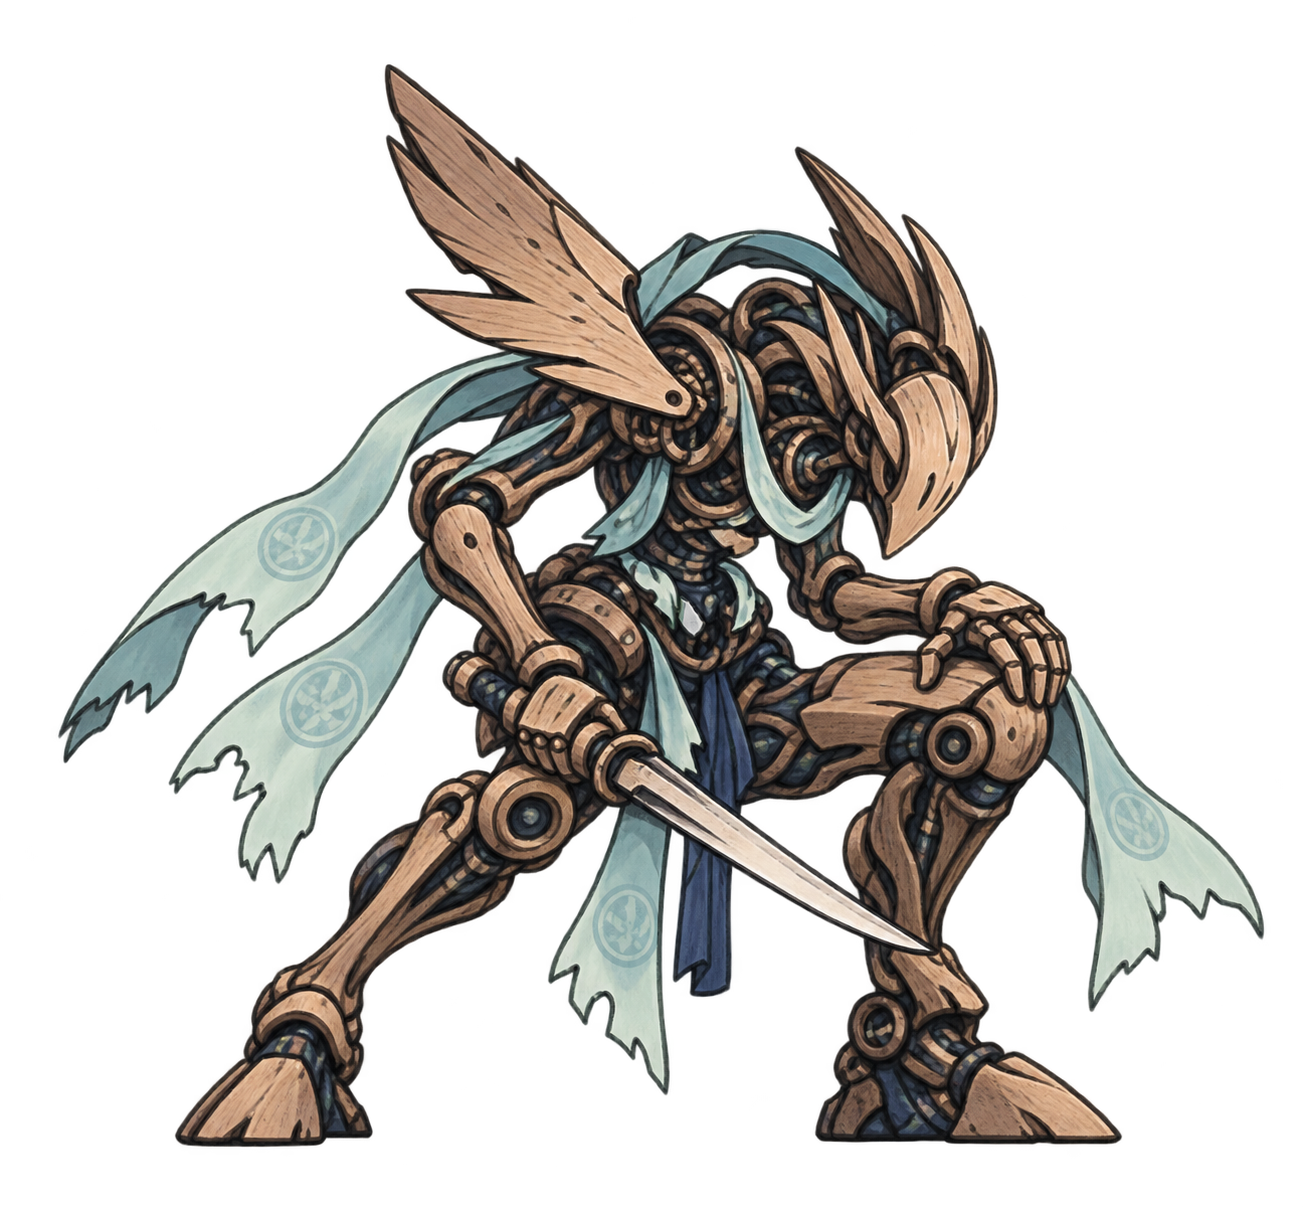
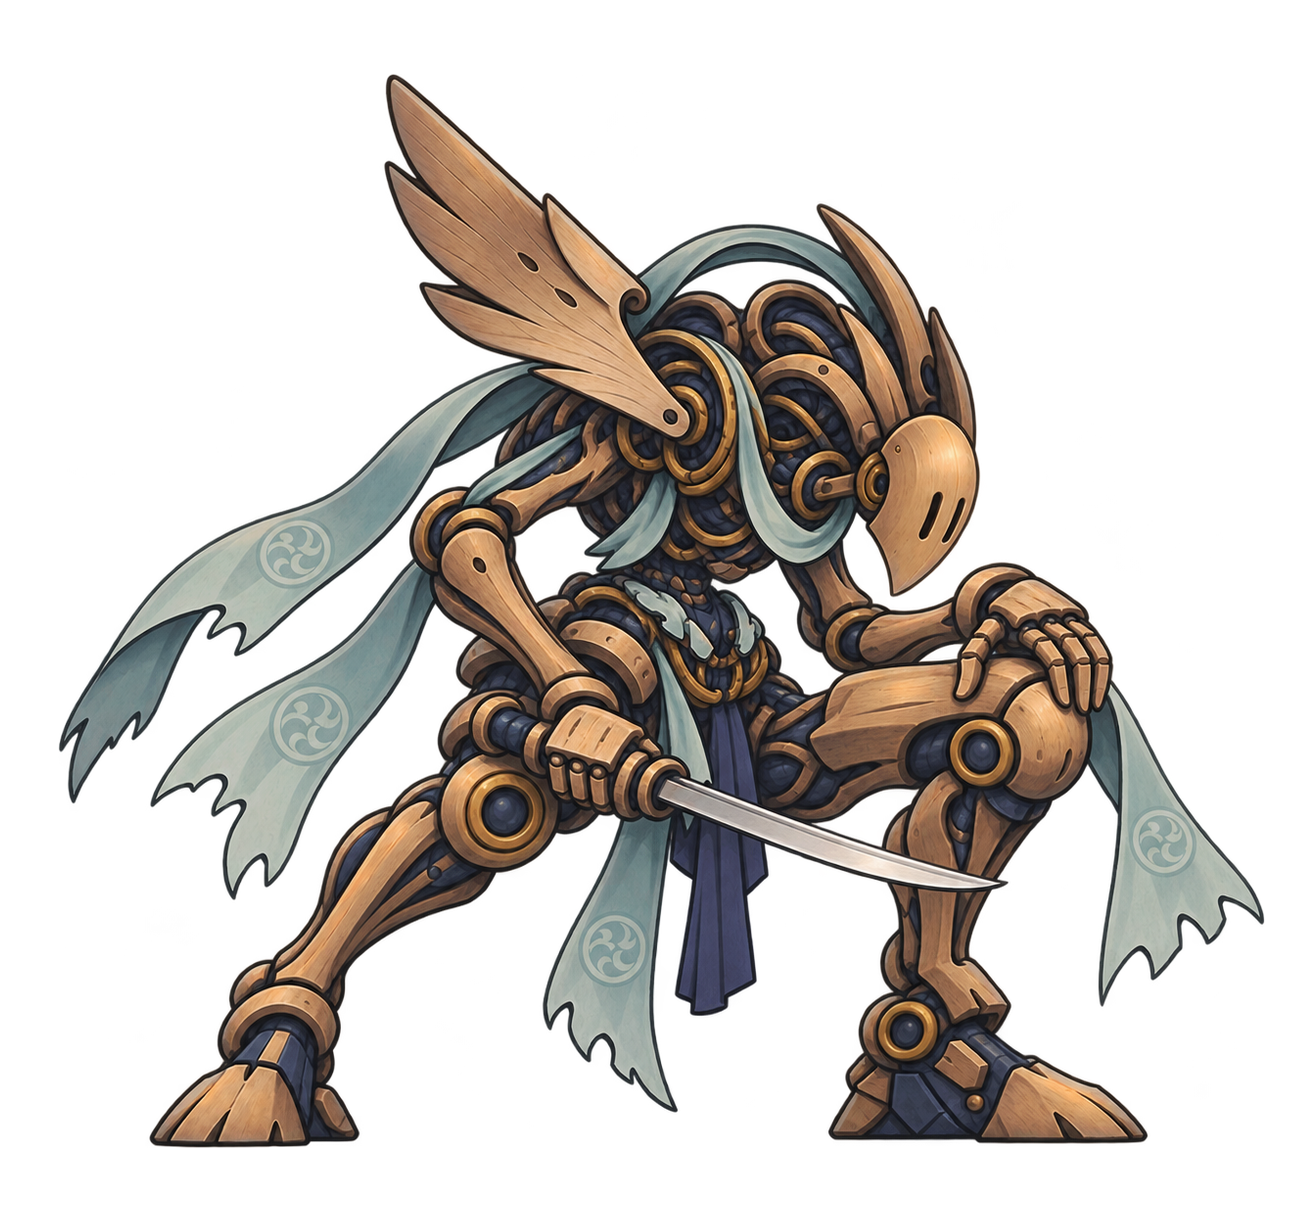
fix(rising-slash): match inheritance poses to the techniques shown

diff --git a/Assets/Runtime/RisingSlash/Visuals/KarmaCharacterAnimator.Rising.cs b/Assets/Runtime/RisingSlash/Visuals/KarmaCharacterAnimator.Rising.cs
@@ -32,6 +32,35 @@ namespace KarmaPrototype
                 picture.transform.localPosition -= Vector3.up * (contact * pictureScale.y);
         }
 
+        internal void ShowRisingWaveAttempt(float elapsed)
+        {
+            // Reuse the base body's low draw, extension and recovery from its sword study.
+            if (elapsed >= 0.75f) DrawMotion(previousMotionForm, "Idle", 0);
+            else DrawMotion(previousMotionForm, "GrowthTechnique", Mathf.Max(0, elapsed - 0.2f));
+        }
+
+        internal void ShowRisingMasteryStance(float elapsed)
+        {
+            DrawMotion(motionForm, "GrowthMastery", Mathf.Clamp(elapsed, 0, KarmaBootstrap.Step));
+        }
+
+        internal void ShowRisingMasteryStroke(Essence technique, float elapsed)
+        {
+            if (technique == Essence.SwordWave)
+                DrawMotion(motionForm, "UP03", Mathf.Max(0, elapsed - KarmaBootstrap.Step));
+            else if (technique == Essence.Guard)
+                DrawMotion(motionForm, "UP04", Mathf.Clamp(elapsed, KarmaBootstrap.Step, 2 * KarmaBootstrap.Step));
+            else DrawMotion(motionForm, "GrowthMastery", Mathf.Max(0, elapsed - KarmaBootstrap.Step));
+        }
+
+        internal void ShowRisingMasteryFinish(float elapsed, bool ready)
+        {
+            if (ready) DrawMotion(motionForm, "Idle", 0);
+            else if (elapsed < 0.4f) DrawMotion(motionForm, "UP04", KarmaBootstrap.Step + elapsed);
+            else if (elapsed < 1.25f) DrawMotion(motionForm, "UPBasic", elapsed - 0.4f);
+            else DrawMotion(motionForm, "GrowthMastery", 4 * KarmaBootstrap.Step + elapsed - 1.25f);
+        }
+
         string RisingBodyMotion(string action, EnemyAttack attack, bool moved)
         {
             if (risingLandingAt >= 0)

diff --git a/Assets/Runtime/Presentation/KarmaGuardianGrowth.cs b/Assets/Runtime/Presentation/KarmaGuardianGrowth.cs
@@ -215,7 +215,18 @@ namespace KarmaPrototype
             if (Stage == 3)
             {
                 DrawMastery(t);
-                animator.ShowGrowthMotion("GrowthMastery", false, t - Revived);
+                if (animator.MotionForm == "RiseFinal")
+                {
+                    if (t < FirstStroke)
+                        animator.ShowRisingMasteryStance(t - MasterStance);
+                    else if (t < HintStart)
+                    {
+                        int stroke = Mathf.Min(2, Mathf.FloorToInt((t - FirstStroke) / StrokeLength));
+                        animator.ShowRisingMasteryStroke(order[stroke], t - FirstStroke - stroke * StrokeLength);
+                    }
+                    else animator.ShowRisingMasteryFinish(t - HintStart, CurrentBeat == Beat.Ready);
+                }
+                else animator.ShowGrowthMotion("GrowthMastery", false, t - Revived);
                 return;
             }
             if (t < Observed)
@@ -368,6 +379,8 @@ namespace KarmaPrototype
             {
                 CurrentBeat = Beat.Imitate;
                 animator.GrowthPose(techniques[1].Copy, true, Vector2.zero);
+                if (order[0] == Essence.RisingSlash && order[1] == Essence.SwordWave)
+                    animator.ShowRisingWaveAttempt(local);
                 float action = Mathf.InverseLerp(0.3f, AttemptReleaseEnd, local);
                 DrawOriginal(guardian.Position, order[1], action * (0.32f + index * 0.16f),
                     Smooth(0.27f, 0.4f, local) * (1 - Smooth(0.8f, AttemptReleaseEnd, local)) * 0.8f);
